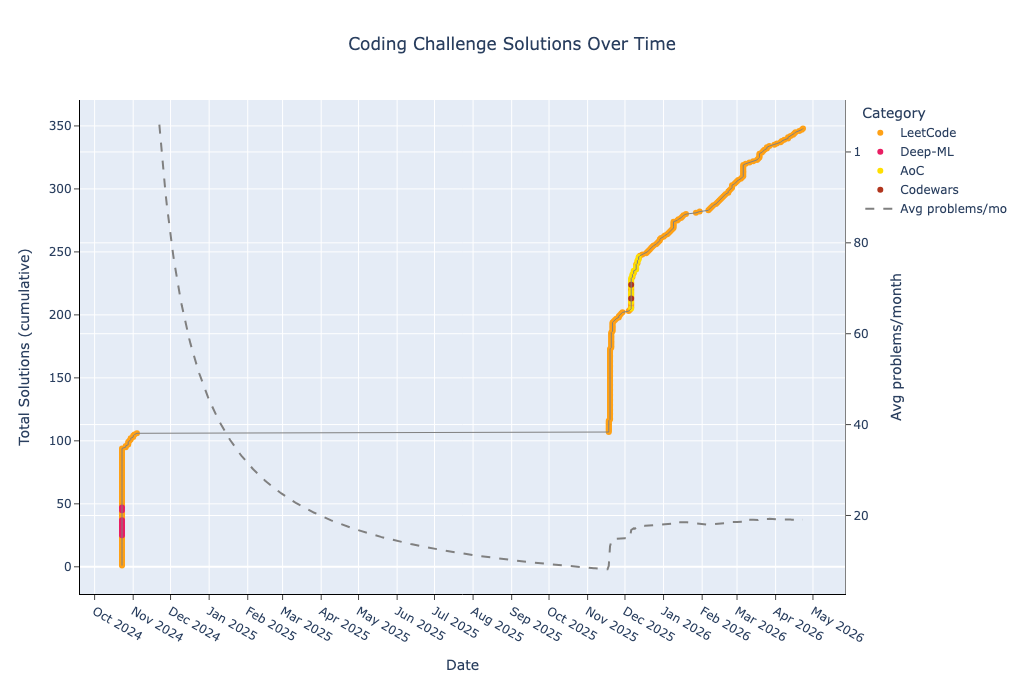
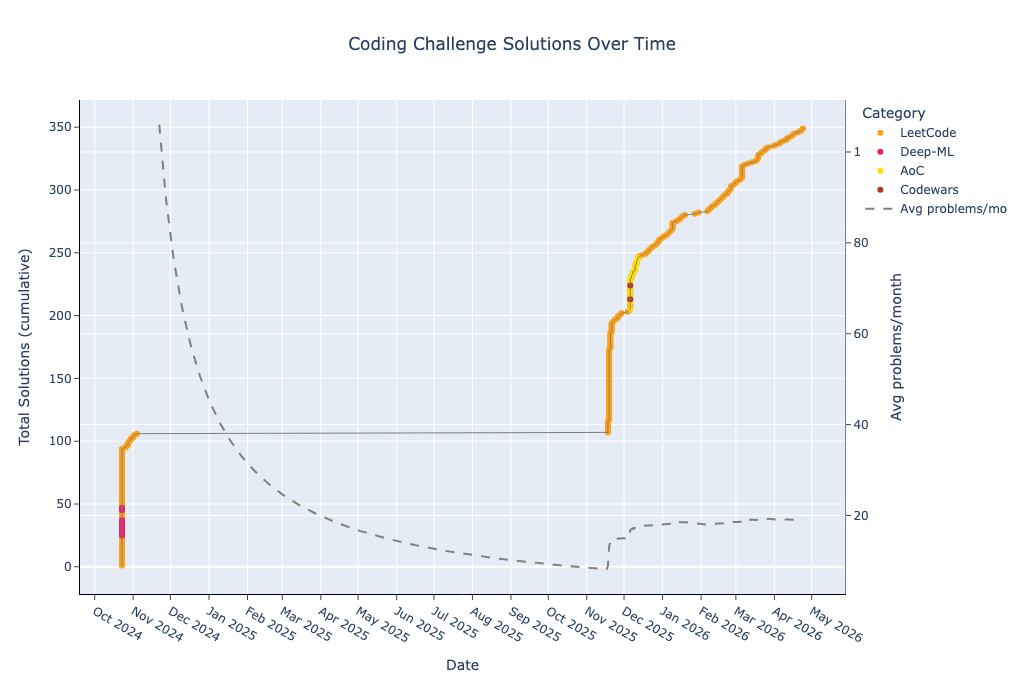
Regenerate README with LeetCode 2833

diff --git a/README.md b/README.md
@@ -35,7 +35,7 @@ This repository contains a collection of coding problems solved on various platf
 | codewars-kyu-5 | 1 | 19 | 19 | 2 | 0 | 2 | 1 | 0 | 0 | 0 | 2 | 0 | 0 | 0 | 0 | 0 | 0 | 0 |
 | deep-ml-easy | 9 | 72 | 8 | 10 | 0 | 2 | 13 | 0 | 0 | 0 | 12 | 3 | 0 | 0 | 0 | 0 | 0 | 0 |
 | deep-ml-medium | 5 | 69 | 13 | 5 | 0 | 1 | 7 | 0 | 0 | 0 | 8 | 2 | 0 | 0 | 0 | 0 | 0 | 0 |
-| leetcode-easy | 113 | 1871 | 16 | 155 | 6 | 150 | 142 | 41 | 4 | 14 | 187 | 4 | 4 | 14 | 1 | 0 | 11 | 0 |
+| leetcode-easy | 114 | 1879 | 16 | 156 | 6 | 152 | 144 | 41 | 4 | 14 | 188 | 4 | 4 | 14 | 1 | 0 | 11 | 0 |
 | leetcode-medium | 165 | 4305 | 26 | 290 | 5 | 427 | 318 | 95 | 19 | 35 | 351 | 6 | 33 | 52 | 11 | 25 | 23 | 7 |
 | leetcode-hard | 30 | 957 | 31 | 56 | 4 | 88 | 75 | 19 | 8 | 15 | 70 | 3 | 7 | 11 | 8 | 2 | 9 | 9 |
 
@@ -47,6 +47,7 @@ Recently solved and added problems.
 
 | Date | Type | Challenge | Solution Code | Problem Link |
 | --- | --- | --- | --- | --- |
+| 2026-04-24 | LeetCode Easy | Furthest Point From Origin | [python](leetcode/easy/2833.%20Furthest%20Point%20From%20Origin.py) | [leetcode.com](https://leetcode.com/problems/furthest-point-from-origin/) |
 | 2026-04-23 | LeetCode Medium | Sum of Distances | [python](leetcode/medium/2615.%20Sum%20of%20Distances.py) | [leetcode.com](https://leetcode.com/problems/sum-of-distances/) |
 | 2026-04-22 | LeetCode Medium | Words Within Two Edits of Dictionary | [python](leetcode/medium/2452.%20Words%20Within%20Two%20Edits%20of%20Dictionary.py) | [leetcode.com](https://leetcode.com/problems/words-within-two-edits-of-dictionary/) |
 | 2026-04-20 | LeetCode Easy | Lucky Numbers in a Matrix | [python](leetcode/easy/1380.%20Lucky%20Numbers%20in%20a%20Matrix.py) | [leetcode.com](https://leetcode.com/problems/lucky-numbers-in-a-matrix/) |
@@ -56,7 +57,6 @@ Recently solved and added problems.
 | 2026-04-17 | LeetCode Medium | Minimum Absolute Distance Between Mirror Pairs | [python](leetcode/medium/3761.%20Minimum%20Absolute%20Distance%20Between%20Mirror%20Pairs.py) | [leetcode.com](https://leetcode.com/problems/minimum-absolute-distance-between-mirror-pairs/) |
 | 2026-04-16 | LeetCode Medium | Closest Equal Element Queries | [python](leetcode/medium/3488.%20Closest%20Equal%20Element%20Queries.py) | [leetcode.com](https://leetcode.com/problems/closest-equal-element-queries/) |
 | 2026-04-15 | LeetCode Easy | Shortest Distance to Target String in a Circular Array | [python](leetcode/easy/2515.%20Shortest%20Distance%20to%20Target%20String%20in%20a%20Circular%20Array.py) | [leetcode.com](https://leetcode.com/problems/shortest-distance-to-target-string-in-a-circular-array/) |
-| 2026-04-13 | LeetCode Easy | Minimum Distance to the Target Element | [python](leetcode/easy/1848.%20Minimum%20Distance%20to%20the%20Target%20Element.py) | [leetcode.com](https://leetcode.com/problems/minimum-distance-to-the-target-element/) |
 # Advent of Code
 ### 2025
 | Day | Challenge | Time Complexity | Space Complexity | Solution Code | Problem Link |
@@ -195,6 +195,7 @@ Recently solved and added problems.
 | 2490 | Circular Sentence | O(n) | O(1) | [python](leetcode/easy/2490.%20Circular%20Sentence.py) | [leetcode.com](https://leetcode.com/problems/circular-sentence/) |
 | 2515 | Shortest Distance to Target String in a Circular Array | O(n) | O(1) | [python](leetcode/easy/2515.%20Shortest%20Distance%20to%20Target%20String%20in%20a%20Circular%20Array.py) | [leetcode.com](https://leetcode.com/problems/shortest-distance-to-target-string-in-a-circular-array/) |
 | 2696 | Minimum String Length After Removing Substrings | O(n) | O(1) | [python](leetcode/easy/2696.%20Minimum%20String%20Length%20After%20Removing%20Substrings.py) | [leetcode.com](https://leetcode.com/problems/minimum-string-length-after-removing-substrings/) |
+| 2833 | Furthest Point From Origin | O(n) | O(1) | [python](leetcode/easy/2833.%20Furthest%20Point%20From%20Origin.py) | [leetcode.com](https://leetcode.com/problems/furthest-point-from-origin/) |
 | 2946 | Matrix Similarity After Cyclic Shifts | O(n*m) | O(m) | [python](leetcode/easy/2946.%20Matrix%20Similarity%20After%20Cyclic%20Shifts.py) | [leetcode.com](https://leetcode.com/problems/matrix-similarity-after-cyclic-shifts/) |
 | 3005 | Count Elements With Maximum Frequency | O(n) | O(1) | [python](leetcode/easy/3005.%20Count%20Elements%20With%20Maximum%20Frequency.py) | [leetcode.com](https://leetcode.com/problems/count-elements-with-maximum-frequency/) |
 | 3063 | Linked List Frequency | O(n) | O(1) | [python](leetcode/easy/3063.%20Linked%20List%20Frequency.py) | [leetcode.com](https://leetcode.com/problems/linked-list-frequency/) |

diff --git a/CHANGES.md b/CHANGES.md
@@ -6,6 +6,7 @@ Recently solved and added problems.
 
 | Date | Type | Challenge | Solution Code | Problem Link |
 | --- | --- | --- | --- | --- |
+| 2026-04-24 | LeetCode Easy | Furthest Point From Origin | [python](leetcode/easy/2833.%20Furthest%20Point%20From%20Origin.py) | [leetcode.com](https://leetcode.com/problems/furthest-point-from-origin/) |
 | 2026-04-23 | LeetCode Medium | Sum of Distances | [python](leetcode/medium/2615.%20Sum%20of%20Distances.py) | [leetcode.com](https://leetcode.com/problems/sum-of-distances/) |
 | 2026-04-22 | LeetCode Medium | Words Within Two Edits of Dictionary | [python](leetcode/medium/2452.%20Words%20Within%20Two%20Edits%20of%20Dictionary.py) | [leetcode.com](https://leetcode.com/problems/words-within-two-edits-of-dictionary/) |
 | 2026-04-20 | LeetCode Easy | Lucky Numbers in a Matrix | [python](leetcode/easy/1380.%20Lucky%20Numbers%20in%20a%20Matrix.py) | [leetcode.com](https://leetcode.com/problems/lucky-numbers-in-a-matrix/) |
@@ -15,4 +16,3 @@ Recently solved and added problems.
 | 2026-04-17 | LeetCode Medium | Minimum Absolute Distance Between Mirror Pairs | [python](leetcode/medium/3761.%20Minimum%20Absolute%20Distance%20Between%20Mirror%20Pairs.py) | [leetcode.com](https://leetcode.com/problems/minimum-absolute-distance-between-mirror-pairs/) |
 | 2026-04-16 | LeetCode Medium | Closest Equal Element Queries | [python](leetcode/medium/3488.%20Closest%20Equal%20Element%20Queries.py) | [leetcode.com](https://leetcode.com/problems/closest-equal-element-queries/) |
 | 2026-04-15 | LeetCode Easy | Shortest Distance to Target String in a Circular Array | [python](leetcode/easy/2515.%20Shortest%20Distance%20to%20Target%20String%20in%20a%20Circular%20Array.py) | [leetcode.com](https://leetcode.com/problems/shortest-distance-to-target-string-in-a-circular-array/) |
-| 2026-04-13 | LeetCode Easy | Minimum Distance to the Target Element | [python](leetcode/easy/1848.%20Minimum%20Distance%20to%20the%20Target%20Element.py) | [leetcode.com](https://leetcode.com/problems/minimum-distance-to-the-target-element/) |
